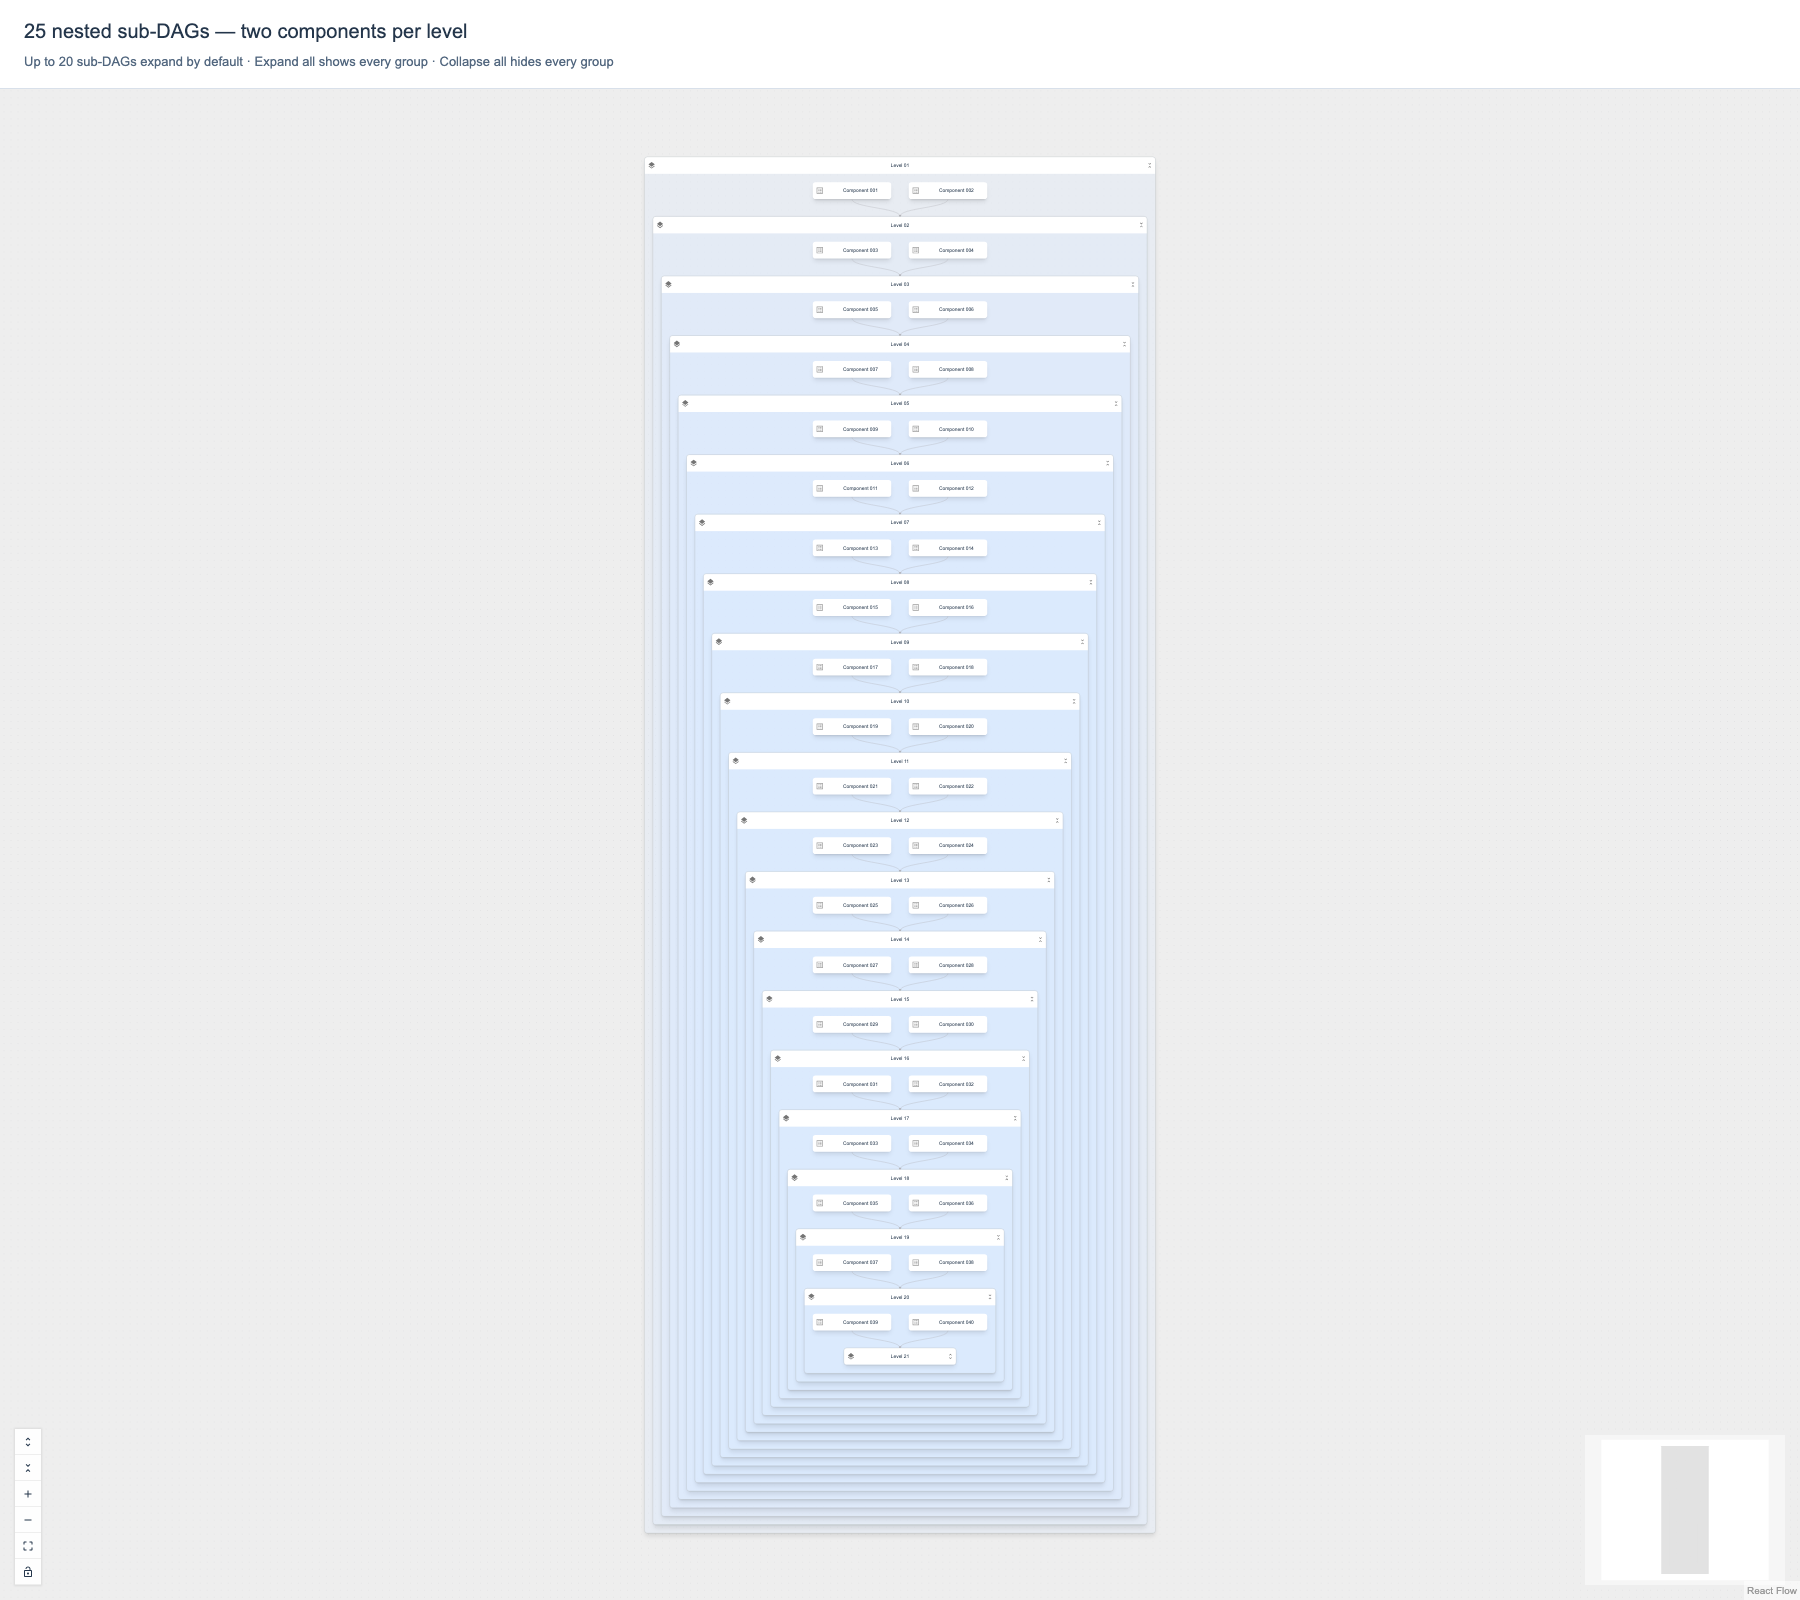
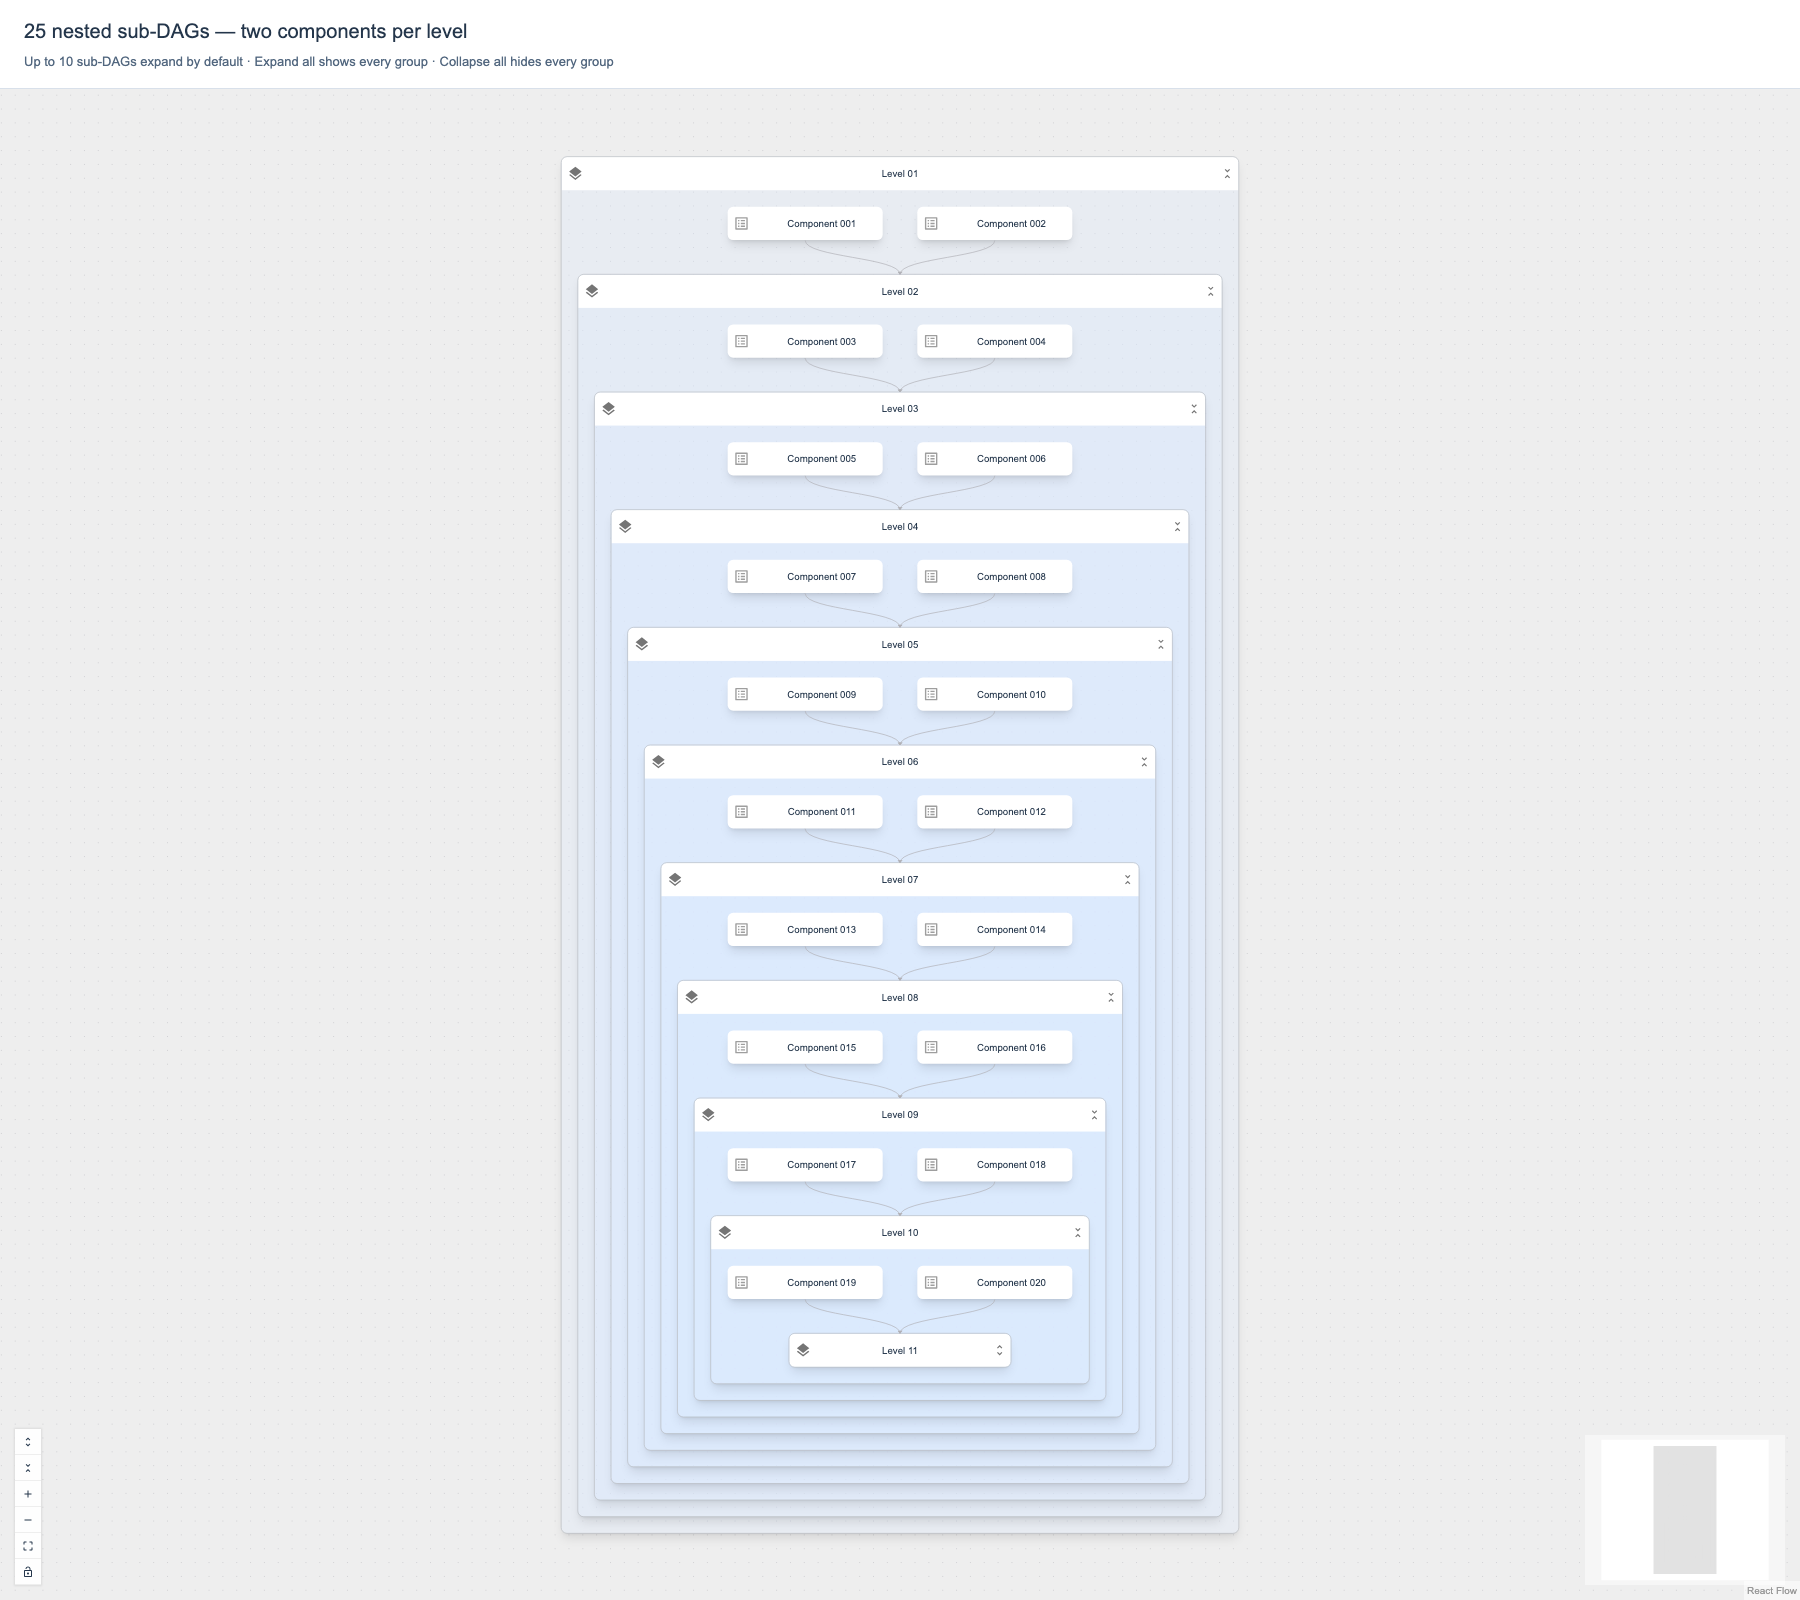
docs: refresh graph screenshots for ten expanded sub-DAGs

diff --git a/screenshots/README.md b/screenshots/README.md
@@ -1,30 +1,37 @@
 # PR #14751 screenshots
 
-Captured locally from [code commit 185cbcaf6d2251b0f8ba48c9a5d14a5e277de2f7](https://github.com/droctothorpe/pipelines/commit/185cbcaf6d2251b0f8ba48c9a5d14a5e277de2f7) using the real DagCanvas in Storybook and Chromium, with Node 24.14.0 / npm 11.17.0. Runtime statuses in the loop example are fixture data. These are not captures of a new Kubernetes rollout.
+Captured from [code commit 94e466b88a34e136b09b1999f224bf20cd895fbf](https://github.com/droctothorpe/pipelines/commit/94e466b88a34e136b09b1999f224bf20cd895fbf) using the real DagCanvas in local Storybook and Chromium. Node 24.14.0 / npm 11.17.0. These are not captures of a new Kubernetes rollout.
+
+## Expansion persistence and defaults
+
+- Normal pipeline-version and run graphs persist expansion mode and individual expanded/collapsed IDs in localStorage, scoped to their stable resource IDs.
+- Saved choices survive remounts, page reloads, and browser restarts when storage is available. Malformed/blocked/full storage does not prevent rendering or in-memory interaction.
+- Uncached graphs expand at most **10 sub-DAGs**, shallower and upstream groups first. Expand all and Collapse all override this default.
+- This is a **DAG-count limit, not a width limit**.
+- Storybook examples intentionally omit persistent resource IDs, so screenshot tests start from reproducible defaults. Production-bundle browser tests verify persistence on both pipeline and run pages.
+- Manual drag positions are not persisted.
 
 ## 25 nested sub-DAGs, two component tasks per level
 
-The former 100-component / 20-level example is replaced by **25 nested sub-DAGs with two executable components each**, 50 components total.
+- `twenty-five-levels-default.png`: levels 1–10 expanded, Level 11 collapsed, and levels 12–25 hidden. 20 component tasks and 11 group nodes are visible.
+- `twenty-five-levels-full.png`: after Expand all, all 25 groups and 50 component tasks are visible.
+- `twenty-five-levels-comparison.png`: side-by-side composition of those unmodified overview captures.
+- `twenty-five-levels-detail-default.png` / `twenty-five-levels-detail-full.png`: zoomed views showing the collapsed boundary and full-depth descendants.
+- `twenty-five-levels-detail-comparison.png`: side-by-side composition of the zoomed views.
+- `twenty-five-levels-validation.json`: verified counts, nesting, deepest selection, and ephemeral Storybook reload behavior.
 
-- `twenty-five-levels-default.png`: default partial expansion, levels 1–20 expanded, Level 21 collapsed, and levels 22–25 hidden. 40 component tasks and 21 group nodes are visible.
-- `twenty-five-levels-full.png`: after Expand all, all 25 groups and all 50 component tasks are visible.
-- `twenty-five-levels-comparison.png`: side-by-side composition of those unchanged overview captures.
-- `twenty-five-levels-detail-default.png` / `twenty-five-levels-detail-full.png`: zoomed views making the collapsed Level 21 boundary and its fully expanded descendants legible.
-- `twenty-five-levels-detail-comparison.png`: side-by-side composition of those unchanged zoomed captures.
-- `twenty-five-levels-validation.json`: verified counts, nesting, deepest selection, and reload behavior.
-
-The overview fits the complete visible topology; the detail images deliberately show magnified subsets.
+The overview fits the complete visible topology; detail images deliberately show magnified subsets.
 
 ## 25 sibling/sequential sub-DAGs
 
-- `twenty-five-subdags-default.png`: 20 expanded and five collapsed, with Groups 20–24 in the bottom row.
+- `twenty-five-subdags-default.png`: 10 expanded and 15 collapsed, with Groups 10–24 in the bottom three rows.
 - `twenty-five-subdags-full.png`: all 25 expanded.
 - `twenty-five-subdags-comparison.png`: labelled side-by-side composition.
 - `twenty-five-subdags-validation.json`: asserted browser behavior.
 
 ## Other refreshed pairs
 
-Nested pipelines/artifacts, conditional branches, runtime iterations, the SDK nested-loop fixture, and the exit-handler example retain expanded/collapsed pairs. `gallery-validation.json` records their counts and interaction checks.
+Nested pipelines/artifacts, conditions, runtime iterations, the SDK nested-loop fixture, and the exit-handler example have explicitly expanded/collapsed pairs. Runtime statuses are fixture data. `gallery-validation.json` records counts and interaction checks.
 
 ## Reproduction
 
@@ -35,14 +42,16 @@ npm run storybook -- --ci
 # In another terminal:
 STORYBOOK_URL=http://localhost:6006 SCREENSHOT_DIR=/tmp/subdag-screenshots \
   node --test scripts/subdag-expansion.smoke.mjs scripts/subdag-interaction.smoke.mjs
-```
 
-The interaction test verifies empty group bodies pan the viewport—including nested, selected, and locked groups—while root/nested/collapsed headers, component nodes, and artifact nodes retain their expected drag behavior.
+# Actual page reload/persistence and 8px strip checks against the production bundle:
+npm run build
+node --test scripts/production-bundle.smoke.mjs
+```
 
 ## Validation
 
-- Full frontend unit suite: **135 files / 1,767 tests passed**.
-- Production build, UI/server lint, typecheck, format checks, and git diff check passed.
-- **Five production-browser checks passed**, including the new 8px white tab-to-graph strip on pipeline and run pages.
-- **Three Storybook browser regressions passed**, plus the five-example gallery.
-- The local Kubernetes deployment remains at previously verified commit `854538921`; these follow-up changes have not been redeployed.
+- **136 test files / 1,782 tests passed**.
+- Production build, UI/server lint, typecheck, formatting, and git diff check passed.
+- **Five production-browser checks passed**, including both graph-page reloads retaining Collapse all, Expand all and individual exceptions, plus the 8px white tab-to-graph strip.
+- **Three Storybook browser regressions passed**, including group-body panning versus header/node dragging, plus the five-example gallery.
+- Local Kubernetes remains at previously deployed commit `854538921`; the latest follow-ups have not been redeployed.
